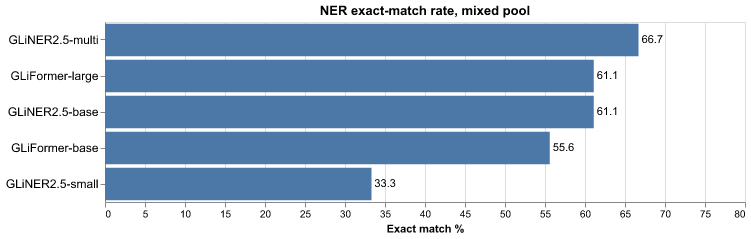
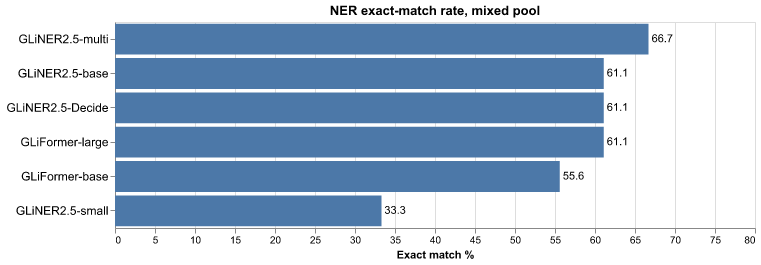
docs: 22 systems across 14 families
Tables (+3 rows each, placed by the existing sort conventions), intro,
takeaways, feature matrix (two new family columns), setup (venv-von
installs, vendored engine note), Run interpreter lines, family map
(Decide promoted to benchmarked; two new families), trial-pool section
keeps only the non-promoted candidates, charts regenerated. Also two
pre-existing wording fixes from review: Verdict is the fastest *local*
decision engine (Jev cloud is faster), and gliclass-large's Sinhala 67%
is joint-best with Kev 0.8B.

Changed region(s): [[0.0, 0.0, 1.0, 0.9958]]

diff --git a/README.md b/README.md
@@ -1,6 +1,6 @@
 # zero-shot-ie-bench
 
-Nineteen zero-shot systems across twelve information-extraction and
+Twenty-two zero-shot systems across fourteen information-extraction and
 classification families — extractor encoders, a purpose-built classifier,
 and typed-decision engines (local and cloud) — demoed, benchmarked, and
 cross-compared in one repo with a web UI.
@@ -8,6 +8,7 @@ cross-compared in one repo with a web UI.
 | System | Kind | Size | License / cost |
 |---|---|---|---|
 | [GLiNER 2.5](https://github.com/fastino-ai/GLiNER2) (`fastino/gliner2.5-*`) | local extractor encoder (boundary arch) | 74M / 194M / 287M | Apache 2.0, free |
+| [GLiNER2.5-Decide](https://huggingface.co/fastino/GLiNER2.5-Decide) (`fastino/GLiNER2.5-Decide`) | local decision-tuned classifier in the GLiNER 2.5 family (spans + label heads, one pass) | 340M | Apache 2.0, free |
 | [GLiFormer](https://github.com/Knowledgator/GLiFormer) (`knowledgator/gliformer-*`) | local extractor encoder (layout-aware DeBERTa) | ~190M / 575.6M | Apache 2.0, free |
 | [GLiClass](https://github.com/knowledgator/gliclass) (`knowledgator/gliclass-*-v3.0`) | local zero-shot classifier (all labels, one pass) | 33M / 151M / 187M / 439M | Apache 2.0, free |
 | [Laya](https://huggingface.co/convaiinnovations/laya) (`laya`) | local typed-decision engine (choice/score/noul) | 421M (322M multilingual) | Apache 2.0, free |
@@ -18,6 +19,8 @@ cross-compared in one repo with a web UI.
 | [decider](https://huggingface.co/Mapika/decider-0.8b) (`decider-ai`) | local decision engine (System One contract) | 0.8B | Apache 2.0, free |
 | [OpenThai-SystemOne](https://huggingface.co/iapp-technology/OpenThai-SystemOne) (`openthai-systemone`) | local decision engine (Thai/English, System One contract) | 0.8B | Apache 2.0 package; weights gated on HF |
 | [Verdict](https://huggingface.co/heman10x/rlcd-modernbert-151m) | local decision encoder (ModernBERT + abstention head) | 151M | Apache 2.0, free |
+| [JevK5-Lite](https://huggingface.co/alibiserikbay/JevK5-Lite) (`jevk5` runtime) | local decision classifier (label-head encoder, one pass) | 437M | Apache 2.0, free |
+| [LFM2.5-RLCD](https://huggingface.co/notnotsamuel/LFM2.5-350M-RLCD) (`rlcd_engine/`, vendored) | local decision engine (constrained decoding over LFM2.5) | 350M | engine MIT; weights LFM Open License v1.0 |
 | [Jev](https://www.typesafe.ai/) (`jev-latest` via System One API) | cloud typed-decision engine (choice/score/noul) | closed | paid API |
 
 The GLiNER lineage forked: Urchade Zaratiana (original GLiNER author,
@@ -26,21 +29,23 @@ classic `gliner` package, built GLiFormer on it and also maintains GLiClass.
 Laya's card positions it explicitly as the open local counterpart of cloud
 Jev; von speaks the same System One protocol locally, and so1 is a library
 that turns any open LLM into a Jev-style decider. The open "Jev
-alternative" wave added five more local engines, all benchmarked here:
+alternative" wave added seven more local engines, all benchmarked here:
 Kev and AgentJev (open-weight Jev lookalikes), decider and
-OpenThai-SystemOne (further System One contract servers), and Verdict (a
-151M ModernBERT decision head with trained abstention). Three different
-animals:
+OpenThai-SystemOne (further System One contract servers), Verdict (a
+151M ModernBERT decision head with trained abstention), JevK5-Lite (the
+CPU-sized lite build of JevBench's #3 JevK5) and LFM2.5-RLCD (an
+RLCD-trained LFM2.5 driven by a constrained-decoding engine). Three
+different animals:
 
 - **Extractors** (GLiNER 2.5, GLiFormer): spans, entities, relations,
   records — per-text calls, run offline.
 - **Classifiers** (GLiClass): zero-shot text→label scores with every label
   answered in one forward pass.
 - **Decision engines** (Laya, von, so1, Kev, AgentJev, decider, OpenThai,
-  Verdict, Jev): you ask typed questions (`choice`, `score`, `noul`) over a
-  JSON state; all questions in one call are answered together (one forward
-  pass / one request). This benchmark exercises Verdict's `choice`
-  questions only; its API also defines `score` rubrics and `noul`.
+  Verdict, JevK5-Lite, LFM2.5-RLCD, Jev): you ask typed questions (`choice`,
+  `score`, `noul`) over a JSON state; all questions in one call are answered
+  together (one forward pass / one request). This benchmark exercises Verdict's
+  `choice` questions only; its API also defines `score` rubrics and `noul`.
 
 ## Benchmark results
 
@@ -111,11 +116,11 @@ Honest caveats:
   the combined multi-task call where large succeeded; base embeddings are
   768-d vs large 1024-d.
 
-## Mixed-pool spectrum benchmark (all 19 systems)
+## Mixed-pool spectrum benchmark (all 22 systems)
 
 `bench_spectrum.py` — the headline comparison. Every system answers the
 same **one mixed pool** of 48 classification questions (sentiment + topic,
-varying difficulty); the five extractors also answer 18 NER questions.
+varying difficulty); the six extractors also answer 18 NER questions.
 After all systems have run, each question's difficulty is **measured** as
 the fraction of answering systems that got it wrong (continuous 0–1); the
 web UI plots each system's accuracy along that spectrum, and per-question
@@ -127,10 +132,12 @@ exact span-set match (18 questions):
 | System | Classification | s/question | NER exact | s/question |
 |---|---|---|---|---|
 | Jev (cloud) | **93.8%** | 0.037 | n/a | |
+| GLiNER2.5-Decide | 85.4% | 0.412 | 61% | 0.476 |
 | GLiNER2.5-base | 83.3% | 0.111 | 61% | 0.135 |
 | decider 0.8B (local) | 83.3% | 2.144 | n/a | |
 | gliclass-base | 81.2% | 0.110 | n/a | |
 | gliclass-large | 81.2% | 0.411 | n/a | |
+| JevK5-Lite | 81.2% | 0.392 | n/a | |
 | GLiNER2.5-multi | 79.2% | 0.152 | **67%** | 0.180 |
 | GLiFormer-large | 79.2% | 0.412 | 61% | 0.411 |
 | von-1.0 (option-marker) | 79.2% | 0.226 | n/a | |
@@ -143,6 +150,7 @@ exact span-set match (18 questions):
 | GLiFormer-base | 66.7% | 0.139 | 56% | 0.145 |
 | gliclass-edge | 66.7% | **0.016** | n/a | |
 | gliclass-modern-base | 66.7% | 0.051 | n/a | |
+| LFM2.5-RLCD 350M | 56.2% | 0.469 | n/a | |
 | so1 + Qwen2.5-0.5B | 43.8% | 0.237 | n/a | |
 | Verdict 151M (local) | 39.6% | 0.165 | n/a | |
 
@@ -165,8 +173,14 @@ engine at 83.3% (tying GLiNER2.5-base) — but at 2.1 s/question it is also
 the slowest system on this page. OpenThai-SystemOne (Qwen3.5-0.8B with a
 Gated DeltaNet hybrid backbone and a 256-way slot head, Thai/English
 tuning) scores 70.8% at 0.5 s after a multi-minute lazy warm-up.
+GLiNER2.5-Decide — Fastino's decision-tuned GLiNER 2.5 sibling — is the
+second-best local classifier at 85.4% (only cloud Jev is higher) and is
+still NER-capable at 61% exact match. JevK5-Lite, the lite build of
+JevBench's #3 JevK5, adds 81.2% at 0.392 s/question (tied with the
+gliclass v3.0 pair) and a perfect 100% on the multilingual popular tier
+(78% overall).
 Verdict, an RLCD-trained 151M ModernBERT decision head, is the fastest
-decision engine here (0.165 s) but abstains on 22/48 questions —
+local decision engine here (0.165 s) but abstains on 22/48 questions —
 abstention scores as wrong, so 39.6% overall (73% on the 26 it does
 answer). The so1
 technique works mechanically on any ChatML LLM, but a 0.5B base model is
@@ -207,7 +221,7 @@ Popular: Spanish, French, Chinese · Medium: Vietnamese, Turkish, Ukrainian ·
 Rare: **Sinhala**, Icelandic, Welsh. Sentences were verified by blind
 back-translation through an independent model instance (it caught 8 errors,
 including a sentiment-flipping Sinhala word) and the full table is in the
-PR for native-speaker review. All 19 systems answer the same 54 texts.
+PR for native-speaker review. All 22 systems answer the same 54 texts.
 
 | System | Popular | Medium | Rare | All |
 |---|---|---|---|---|
@@ -217,13 +231,16 @@ PR for native-speaker review. All 19 systems answer the same 54 texts.
 | OpenThai 0.8B (local) | 100% | 100% | 50% | 83% |
 | gliclass-large | 100% | 89% | 56% | 81% |
 | Kev 0.8B (local) | 94% | 89% | 50% | 78% |
+| JevK5-Lite | 100% | 89% | 44% | 78% |
 | Laya Router (mmBERT) | 89% | 94% | 44% | 76% |
 | gliclass-base | 94% | 67% | 39% | 67% |
+| GLiNER2.5-Decide | 89% | 83% | 33% | 69% |
 | GLiFormer-large | 94% | 61% | 33% | 63% |
 | AgentJev 0.6B (local) | 83% | 83% | 22% | 63% |
 | Laya typed-decisions | 100% | 44% | 33% | 59% |
 | GLiNER2.5-base | 89% | 50% | 28% | 56% |
 | GLiFormer-base | 83% | 44% | 33% | 54% |
+| LFM2.5-RLCD 350M | 78% | 67% | 11% | 52% |
 | von-1.0 (option-marker) | 72% | 33% | 39% | 48% |
 | gliclass-modern-base | 44% | 33% | 39% | 39% |
 | so1 + Qwen2.5-0.5B | 39% | 39% | 33% | 37% |
@@ -237,8 +254,9 @@ PR for native-speaker review. All 19 systems answer the same 54 texts.
 
 Per-language highlights: GLiNER2.5-multi is perfect through Ukrainian but
 drops on Welsh (67%) and Sinhala (33%); gliclass-large transfers
-surprisingly well for an English-family release (100% on Chinese, and the
-best local Sinhala score at 67%); Jev is the only system at 100% on
+surprisingly well for an English-family release (100% on Chinese, and a
+joint-best local Sinhala score at 67%, tied with Kev 0.8B); Jev is the
+only system at 100% on
 Sinhala. Kev 0.8B lands at 78% (94/89/50 across tiers), between
 gliclass-large (81%) and Laya Router (76%) — the Qwen3.5 backbone
 carries far more multilingual pretraining than any encoder here, though
@@ -264,23 +282,23 @@ checkpoints before timing, so script changes do not include weight loading.
 
 ## Feature comparison
 
-| Capability | GLiNER 2.5 | GLiFormer | GLiClass | Laya | von | so1 | Jev | Kev | AgentJev | decider | OpenThai | Verdict |
-|---|---|---|---|---|---|---|---|---|---|---|---|---|
-| Ability group | Extractor | Extractor | Classifier | Decision engine | Decision engine | Decision engine (BYO LLM) | Decision engine (cloud) | Decision engine (local, open weights) | Decision engine (local, open weights) | Decision engine (local, open weights) | Decision engine (local, open weights) | Decision engine (local, encoder head) |
-| Zero-shot NER spans | ✅ | ✅ | ❌ | ❌ | ❌ | ❌ | ❌ | ❌ | ❌ | ❌ | ❌ | ❌ |
-| Text classification | ✅ | ✅ | ✅ | ✅ choice | ✅ choice | ✅ choice | ✅ choice | ✅ choice | ✅ choice | ✅ choice | ✅ choice | ✅ choice |
-| All labels scored in one pass | ✅ | ✅ | ✅ (its core design) | ✅ | ✅ | ✅ packed | ✅ one request | ✅ one request | ✅ one request | ✅ one request | ✅ one request | ✅ per query |
-| Relations | ✅ + JointIE graph | ✅ joint head | ❌ | ❌ | ❌ | ❌ | ❌ | ❌ | ❌ | ❌ | ❌ | ❌ |
-| Span attributes (per-entity sentiment) | ✅ | ❌ | ❌ | ❌ | ❌ | ❌ | ❌ | ❌ | ❌ | ❌ | ❌ | ❌ |
-| Structured records | ✅ flat, anchor-based | ✅ nested Pydantic | ❌ | ❌ | ❌ | ❌ | ❌ | ❌ | ❌ | ❌ | ❌ | ❌ |
-| Ordinal score rubrics | ❌ | ❌ | ❌ | ✅ score | ✅ rate | ✅ | ✅ score | ✅ score | ✅ score | ✅ score | ✅ score | ✅ score (untested here) |
-| Yes/no judgments | ❌ | ❌ | ❌ | ✅ noul | ✅ judge | ✅ yes_no | ✅ noul | ✅ noul | ✅ boolean | ✅ noul | ✅ noul | ✅ noul (untested here) |
-| Text embeddings | ❌ | ✅ 1024-d | ❌ (reranker-capable) | ❌ | ❌ | ❌ | ❌ | ❌ | ❌ | ❌ | ❌ | ❌ |
-| Multilingual | ✅ multi ckpt (89% over 9 langs here) | ❌ English (63%) | ✅ large 81% over 9 langs | ✅ Router, 100+ langs (76%) | option-marker: 48% over 9 langs | = base LLM's languages (37%) | ✅ 100% incl. Sinhala | ✅ 78% over 9 langs | 63% over 9 langs | 83% over 9 langs | 83% over 9 langs | 22% over 9 langs |
-| Runs offline / data local | ✅ | ✅ | ✅ | ✅ | ✅ | ✅ | ❌ | ✅ | ✅ | ✅ | ✅ | ✅ |
-| Cost | free | free | free | free | free | free | $0.042/1M input | free (CPU time) | free (CPU time) | free (CPU time) | free (CPU time) | free (CPU time) |
-| License | Apache 2.0 | Apache 2.0 | Apache 2.0 | Apache 2.0 | Apache 2.0 | MIT (lib) | proprietary API | Apache 2.0 | Apache 2.0 | Apache 2.0 | Apache 2.0 (package); weights gated | Apache 2.0 |
-| Batch shape | per text | per text (batch_size) | per text, all labels | all questions, one pass | per text | one packed prompt | all questions, one request | all questions, one request | all questions, one request | all questions, one request | all questions, one request | per text, all options |
+| Capability | GLiNER 2.5 | GLiFormer | GLiClass | Laya | von | so1 | Jev | Kev | AgentJev | decider | OpenThai | Verdict | JevK5-Lite | LFM2.5-RLCD |
+|---|---|---|---|---|---|---|---|---|---|---|---|---|---|---|
+| Ability group | Extractor | Extractor | Classifier | Decision engine | Decision engine | Decision engine (BYO LLM) | Decision engine (cloud) | Decision engine (local, open weights) | Decision engine (local, open weights) | Decision engine (local, open weights) | Decision engine (local, open weights) | Decision engine (local, encoder head) | Decision engine (local, label-head encoder) | Decision engine (local, constrained decoding) |
+| Zero-shot NER spans | ✅ | ✅ | ❌ | ❌ | ❌ | ❌ | ❌ | ❌ | ❌ | ❌ | ❌ | ❌ | ❌ | ❌ |
+| Text classification | ✅ | ✅ | ✅ | ✅ choice | ✅ choice | ✅ choice | ✅ choice | ✅ choice | ✅ choice | ✅ choice | ✅ choice | ✅ choice | ✅ choice | ✅ choice |
+| All labels scored in one pass | ✅ | ✅ | ✅ (its core design) | ✅ | ✅ | ✅ packed | ✅ one request | ✅ one request | ✅ one request | ✅ one request | ✅ one request | ✅ per query | ✅ one pass | ✅ per field |
+| Relations | ✅ + JointIE graph | ✅ joint head | ❌ | ❌ | ❌ | ❌ | ❌ | ❌ | ❌ | ❌ | ❌ | ❌ | ❌ | ❌ |
+| Span attributes (per-entity sentiment) | ✅ | ❌ | ❌ | ❌ | ❌ | ❌ | ❌ | ❌ | ❌ | ❌ | ❌ | ❌ | ❌ | ❌ |
+| Structured records | ✅ flat, anchor-based | ✅ nested Pydantic | ❌ | ❌ | ❌ | ❌ | ❌ | ❌ | ❌ | ❌ | ❌ | ❌ | ❌ | ✅ flat closed schema |
+| Ordinal score rubrics | ✅ via Decide (untested here) | ❌ | ❌ | ✅ score | ✅ rate | ✅ | ✅ score | ✅ score | ✅ score | ✅ score | ✅ score | ✅ score (untested here) | ❌ (lite is classification-only) | ❌ |
+| Yes/no judgments | ❌ | ❌ | ❌ | ✅ noul | ✅ judge | ✅ yes_no | ✅ noul | ✅ noul | ✅ boolean | ✅ noul | ✅ noul | ✅ noul (untested here) | ❌ | ✅ boolean |
+| Text embeddings | ❌ | ✅ 1024-d | ❌ (reranker-capable) | ❌ | ❌ | ❌ | ❌ | ❌ | ❌ | ❌ | ❌ | ❌ | ❌ | ❌ |
+| Multilingual | ✅ multi ckpt (89% over 9 langs here) | ❌ English (63%) | ✅ large 81% over 9 langs | ✅ Router, 100+ langs (76%) | option-marker: 48% over 9 langs | = base LLM's languages (37%) | ✅ 100% incl. Sinhala | ✅ 78% over 9 langs | 63% over 9 langs | 83% over 9 langs | 83% over 9 langs | 22% over 9 langs | ✅ 78% over 9 langs | 52% over 9 langs |
+| Runs offline / data local | ✅ | ✅ | ✅ | ✅ | ✅ | ✅ | ❌ | ✅ | ✅ | ✅ | ✅ | ✅ | ✅ | ✅ |
+| Cost | free | free | free | free | free | free | $0.042/1M input | free (CPU time) | free (CPU time) | free (CPU time) | free (CPU time) | free (CPU time) | free (CPU time) | free (CPU time) |
+| License | Apache 2.0 | Apache 2.0 | Apache 2.0 | Apache 2.0 | Apache 2.0 | MIT (lib) | proprietary API | Apache 2.0 | Apache 2.0 | Apache 2.0 | Apache 2.0 (package); weights gated | Apache 2.0 | Apache 2.0 | MIT (engine); LFM Open License v1.0 (weights) |
+| Batch shape | per text | per text (batch_size) | per text, all labels | all questions, one pass | per text | one packed prompt | all questions, one request | all questions, one request | all questions, one request | all questions, one request | all questions, one request | per text, all options | per text, all heads + labels | per text, all field candidates |
 
 ## Setup
 
@@ -324,6 +342,12 @@ OPENTHAI_SYSTEMONE_MODEL=iapp/OpenThai-SystemOne \
 # set VERDICT_HOME if it is not at C:\src\verdict (its artifacts download
 # from heman10x/rlcd-modernbert-151m), and run the benchmarks with the
 # agent-jev venv python.
+# JevK5-Lite and LFM2.5-RLCD 350M also run in .venv-von (transformers
+# 5.17 is already pinned there): the jevk5 lite runtime plus jsonschema.
+# The LFM engine itself is vendored in rlcd_engine/ (engine code MIT; the
+# LiquidAI/LFM2.5-350M weights it loads are under the LFM Open License
+# v1.0), so nothing else is needed for it:
+uv pip install --python .venv-von/Scripts/python.exe "jevk5[lite]==0.3.1" jsonschema
 ```
 
 Use uv for this install: `overrides.txt` deliberately overrides GLiClass
@@ -343,40 +367,55 @@ file in the repo root (gitignored) — see `jev_client.py`; Jev is a paid API.
 ```bash
 .venv/Scripts/python demo.py             # GLiNER 2.5 tour: entities,
                                          # classification, relations, JointIE,
-                                         # span attributes, records
+                                         # span attributes, records — ends
+                                         # with the decision-tuned sibling
+                                         # GLiNER2.5-Decide (--model decide
+                                         # tours only that checkpoint)
 .venv/Scripts/python demo_gliformer.py   # GLiFormer tour + embeddings
                                           # (--model base or large)
 .venv/Scripts/python demo_laya.py        # Laya tour + multilingual Router
 .venv/Scripts/python demo_jev.py         # Jev tour (2 paid API requests)
+.venv-von/Scripts/python jevk5_demo.py   # JevK5-Lite tour (label-head
+                                         # encoder; transformers-5 venv)
+.venv-von/Scripts/python lfm_rlcd_demo.py # LFM2.5-RLCD constrained-decoding
+                                          # tour (vendored rlcd_engine/)
 
 .venv/Scripts/python bench.py            # flat suite, 5 runs per case
                                          # (--repeats N) → bench_results.json
 .venv/Scripts/python bench_spectrum.py --system <name>   # one mixed pool per
                                          # system → bench_spectrum_results.json
-                                         # (19 systems; von: same command
+                                         # (22 systems; von, JevK5-Lite and
+                                         # LFM2.5-RLCD 350M: same command
                                          # under .venv-von/Scripts/python)
 # decider/OpenThai speak plain HTTP, so any interpreter works — but Verdict
 # imports rlcd in-process and needs the transformers-5 agent-jev interpreter:
 C:/venvs/agent-jev/Scripts/python bench_spectrum.py --system "Verdict 151M (local)"
 .venv/Scripts/python bench_multilingual.py --system <name>
-                                         # 9 languages, all 19 systems →
+                                         # 9 languages, all 22 systems →
                                          # bench_multilingual_results.json
                                          # (same interpreter rules)
 .venv/Scripts/python app.py              # web UI at http://127.0.0.1:7860
 ```
 
-The web UI has a live tab per family — GLiNER 2.5, GLiFormer, GLiClass
-(all four v3.0 sizes), Laya (local), von, so1 and Jev (cloud) — plus three
-benchmark tabs (**Classification benchmark**, **Extraction benchmark**,
-**Multilingual benchmark**; tables and charts from the
-`bench_*_results.json` files) and a **Compare** tab (feature matrix).
-Benchmark charts are altair-based: sorted bars, a speed-accuracy scatter,
-accuracy-vs-difficulty lines and a system × language heatmap.
-von runs in its own venv (`.venv-von`) through `von_demo.py`. Its shared
-loader (`von_client.py`) pins the upstream SDK and model revision and
-requires the complete `option_marker.pt` state dict. Missing or incompatible
-weights fail before inference; there is no random-head fallback. First use
-downloads both the encoder and trained option-marker state (about 3 GB total).
+The web UI has live tabs — GLiNER 2.5 (checkpoint selector includes the
+decision-tuned GLiNER2.5-Decide), GLiFormer, GLiClass (all four v3.0
+sizes), Laya (local), von, JevK5-Lite, LFM2.5-RLCD, so1 and Jev (cloud) —
+plus three benchmark tabs (**Classification benchmark**,
+**Extraction benchmark**, **Multilingual benchmark**; tables and charts
+from the `bench_*_results.json` files) and a **Compare** tab (feature
+matrix). The remaining local engines (Kev, AgentJev, decider, OpenThai,
+Verdict) run as separate servers or venvs and are covered in the
+benchmark and compare tabs. Benchmark charts are altair-based: sorted
+bars, a speed-accuracy scatter, accuracy-vs-difficulty lines and a
+system × language heatmap. von, JevK5-Lite and LFM2.5-RLCD run in their
+own venv (`.venv-von`): the von tab spawns `von_demo.py`, the JevK5-Lite
+and LFM2.5-RLCD tabs spawn `jevk5_demo.py` / `lfm_rlcd_demo.py --serve`,
+each loading its model once per click in a single `.venv-von` process.
+von's shared loader (`von_client.py`) pins the upstream SDK and model
+revision and requires the complete `option_marker.pt` state dict. Missing
+or incompatible weights fail before inference; there is no random-head
+fallback. First use downloads both the encoder and trained option-marker
+state (about 3 GB total).
 
 Regression tests run without model downloads or cloud credentials:
 
@@ -394,6 +433,7 @@ extra Laya checkpoints noted below):
 | `fastino/gliner2.5-small-v1` | 74M | DeBERTa-v3-xsmall, fast CPU — benchmarked |
 | `fastino/gliner2.5-base-v1` | 194M | default English — benchmarked |
 | `fastino/gliner2.5-multi-v1` | 287M | mDeBERTa, multilingual — benchmarked; largest 2.5, no `large` exists |
+| `fastino/GLiNER2.5-Decide` | 340M | decision-tuned sibling — benchmarked; second-best local cls |
 | `knowledgator/gliformer-base-v1` | ~190M | benchmarked; best NER F1 here |
 | `knowledgator/gliformer-large-v1` | 575.6M | benchmarked; family is base+large only, no small |
 | `convaiinnovations/laya` (+multilingual, typed-decisions) | 421M / 322M | English root benchmarked; subfolders exist for the other two |
@@ -402,9 +442,10 @@ extra Laya checkpoints noted below):
 | `Mapika/decider-0.8b` | 0.8B (752M) | Qwen3.5-0.8B-Base fine-tune, PyPI `decider-ai` System One server — benchmarked |
 | `iapp/OpenThai-SystemOne` | 0.8B | Qwen3.5 Gated DeltaNet hybrid + 256-way slot head, Thai/English — benchmarked (weights gated on HF) |
 | `heman10x/rlcd-modernbert-151m` | 151M | ModernBERT-base decision head with trained abstention ("Verdict") — benchmarked |
+| `alibiserikbay/JevK5-Lite` | 437M | lite build of JevK5 (JevBench #3): label-head DeBERTa-v3-large encoder, `jevk5` package — benchmarked |
+| `notnotsamuel/LFM2.5-350M-RLCD` | 350M | LFM2.5 backbone + RLCD training; vendored constrained-decoding engine (`rlcd_engine/`) — benchmarked |
 | `akhilaaa3/Jev-Omni` | 12B | multimodal (text/image/audio/video) Gemma 4 fine-tune, own API — not run: needs a CUDA GPU and ~50 GB fp32 weights |
 | `fastino/gliner2-{base,large,multi}-v1` | — | older span-architecture line, different loader — not run |
-| `fastino/GLiNER2.5-Decide` | 340M | decision-tuned GLiNER 2.5 sibling — trial-run (see below), not benchmarked |
 | `gliner-community/gliner_*-v2.5` | — | classic `gliner` package line — not run |
 
 ## Noted, not benchmarked
@@ -431,7 +472,7 @@ accuracy-only scores in this README):
 | System | JevBench v1.4.2 (borrowed) |
 |---|---|
 | decider-4b v2 | #1 at 64.13 — but Jev 1.13.0 (#2, 63.29) keeps the Intelligence (53.1 vs 49.4) and Calibration (76.3 vs 75.0) leads; decider wins Speed (92.9 vs 83.3) and Cost. We benchmarked `decider-0.8b` only |
-| JevK5 v0.2.0 | #3 at 62.04 |
+| JevK5 v0.2.0 | #3 at 62.04 — its lite build (`alibiserikbay/JevK5-Lite`) is benchmarked above |
 | Cygnet | #4 at 61.76 |
 | Hopper | #5 at 59.43 |
 
@@ -442,14 +483,13 @@ candidates that passed the not-already-run / looks-plausible / CPU-runnable
 filters). Each runnable one was tried on two fixed mini-pools from this
 repo's own graded questions — 12 easy-tier and 16 hard-tier classification,
 plus NER where the model supports it. These numbers are **measured here,
-but on trial pools** — they are not the 48-question spectrum above and the
-systems are not part of the 19:
+but on trial pools** — not the 48-question spectrum above. Three of the
+candidates have since graduated to the full benchmark: GLiNER2.5-Decide,
+JevK5-Lite and LFM2.5-RLCD 350M are rows in the tables above now. The
+remaining trial results:
 
 | System | Trial result |
 |---|---|
-| `fastino/GLiNER2.5-Decide` (340M) | 12/12 easy, 13/16 hard cls; NER 3/3 easy, 1/3 hard (over-extracts); ~0.35 s/q on the main venv's `gliner2` stack. The strongest candidate found — queued for a full spectrum run |
-| `alibiserikbay/JevK5-Lite` (437M) | 12/12 easy, 11/16 hard; ~0.40 s/q. Lite build of JevBench's #3; needs the `jevk5` package under transformers 5 |
-| `notnotsamuel/LFM2.5-350M-RLCD` (350M) | 10/12 easy; 0.65 s/q; NER not expressible in its schema subset |
 | `Quazim0t0/Byrne-Jev-79M` | 9/12 easy, 7/16 hard — dominated by the systems above |
 | `pngwn/nanodiff-350m-typed-decisions` | 6/12 easy at 10.5 s/q — "choice at chance" per its own card |
 | `tasksource/modernbert-tasksource-jev` | unrunnable — its `modernjev` package is unpublished, source links 404, card says "preview, not ready to use" |
@@ -461,6 +501,8 @@ systems are not part of the 19:
 | File | What it is |
 |---|---|
 | `demo.py` / `demo_gliformer.py` / `demo_laya.py` / `demo_jev.py` | scripted tours, one per system, shared sample texts |
+| `jevk5_demo.py` | JevK5-Lite tour + one-shot runner (`--serve`) inside `.venv-von`, spawned by its web-UI tab |
+| `lfm_rlcd_demo.py` | LFM2.5-RLCD tour + one-shot runner (`--serve`) inside `.venv-von`, spawned by its web-UI tab |
 | `app.py` | Gradio web UI: live tab per family + benchmark + compare |
 | `von_demo.py` | one-shot von runner inside `.venv-von`, spawned by the von tab |
 | `von_client.py` | pinned, complete option-marker checkpoint loader shared by demo and benchmarks |
@@ -469,12 +511,13 @@ systems are not part of the 19:
 | `bench.py` | flat-suite benchmark driver (classification + NER, 5× determinism) |
 | `bench_spectrum.py` | the headline mixed-pool benchmark, one run per `--system` |
 | `bench_graded.py` | question pools for the mixed-pool benchmark (source for `bench_spectrum.py`) |
-| `bench_multilingual.py` | 9-language zero-shot suite, all 19 systems (Sinhala/Icelandic/Welsh in the rare tier) |
+| `bench_multilingual.py` | 9-language zero-shot suite, all 22 systems (Sinhala/Icelandic/Welsh in the rare tier) |
 | `make_chart_images.py` | renders the benchmark charts to `docs/charts/*.png` for this README |
 | `bench_*_results.json` | latest results, rendered by the web UI |
 
 ## License
 
 MIT — see [LICENSE](LICENSE). Model licenses belong to their authors
-(Apache 2.0 for the open model families; so1's library is MIT); Jev access
-is subject to TypeSafe AI's terms.
+(Apache 2.0 for the open model families; so1's library is MIT; the
+LiquidAI/LFM2.5-350M weights behind LFM2.5-RLCD are under the LFM Open
+License v1.0); Jev access is subject to TypeSafe AI's terms.
